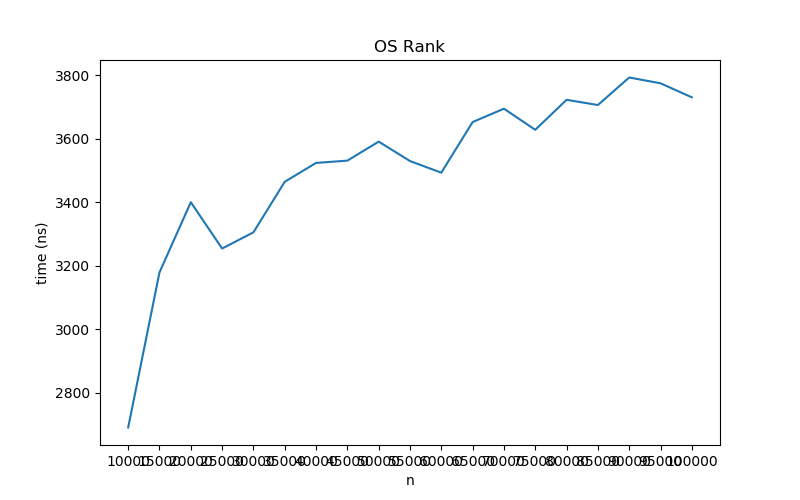
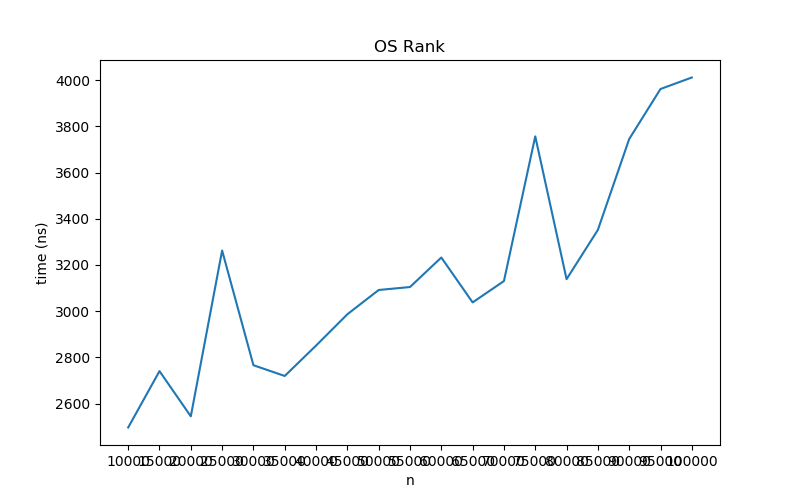
Updated Tests, os_select not working properly

diff --git a/Python/OSTrees/os_trees.py b/Python/OSTrees/os_trees.py
@@ -432,9 +432,8 @@ def plot_graph(filename, heading, time, n):
 
 if __name__ == "__main__":
 
-    n = np.array([10000, 15000, 20000, 25000, 30000, 35000, 40000, 
-    45000, 50000, 55000, 60000, 65000, 70000, 75000, 80000, 85000, 90000, 95000, 100000])#, 250000, 300000, 350000, 400000, 450000, 500000]
-    avg_times = 25
+    n = np.arange(5000, 105000, 5000)
+    avg_times = 1
 
     insert_time = []
     delete_time = []
@@ -467,9 +466,9 @@ if __name__ == "__main__":
                 nodes.append(node)
                 end_insert = time.time_ns()
 
-                start_select = time.time_ns()
-                ost.tree_os_select(node, 1)
-                end_select = time.time_ns()
+                # start_select = time.time_ns()
+                # ost.tree_os_select(node, 2)
+                # end_select = time.time_ns()
             
                 start_rank = time.time_ns()
                 ost.tree_os_rank(node)
@@ -481,29 +480,29 @@ if __name__ == "__main__":
 
                 rb_insert += end_insert - start_insert
                 rb_delete += end_delete - start_delete
-                os_select += end_select - start_select
+                # os_select += end_select - start_select
                 os_rank += end_rank - start_rank
             
             avg_insert += rb_insert/len(random_insert)
             avg_delete += rb_delete/len(random_insert)
-            avg_select += os_select/len(random_insert)
+            # avg_select += os_select/len(random_insert)
             avg_rank += os_rank/len(random_insert)
         
         insert_time.append(avg_insert/avg_times)
         delete_time.append(avg_delete/avg_times)
-        select_time.append(avg_select/avg_times)
+        # select_time.append(avg_select/avg_times)
         rank_time.append(avg_rank/avg_times)
 
     print(insert_time)
     x = np.linspace(1, len(n), len(n))
     print(x)
     print(delete_time)
-    print(select_time)
+    # print(select_time)
     print(rank_time)
 
     plot_graph('rb_insert', 'RB Insert', insert_time, n)
     plot_graph('rb_delete', 'RB Delete', delete_time, n+1)
-    plot_graph('os_select', 'OS Select', select_time, n)
+    # plot_graph('os_select', 'OS Select', select_time, n)
     plot_graph('os_rank', 'OS Rank', rank_time, n)
 
 
